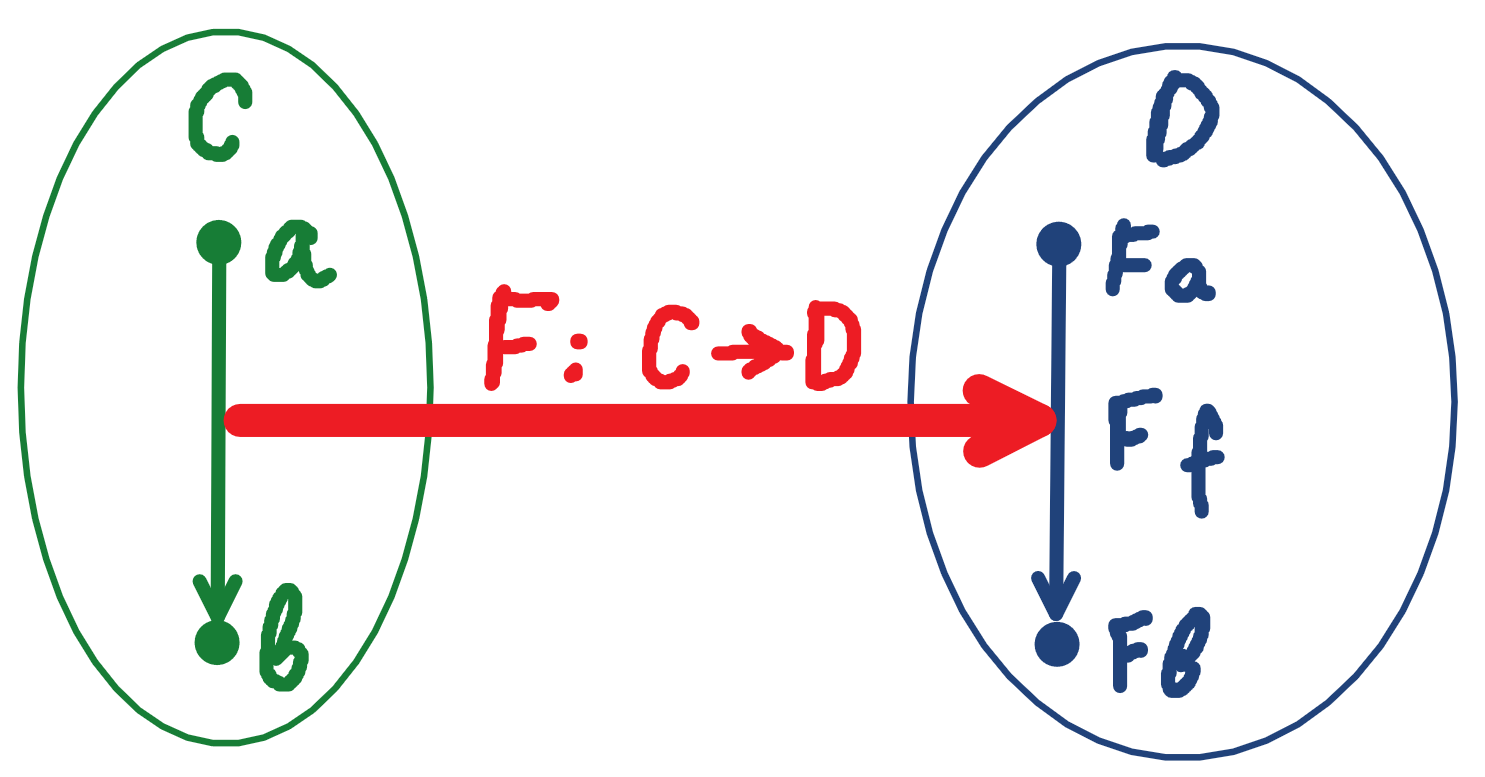
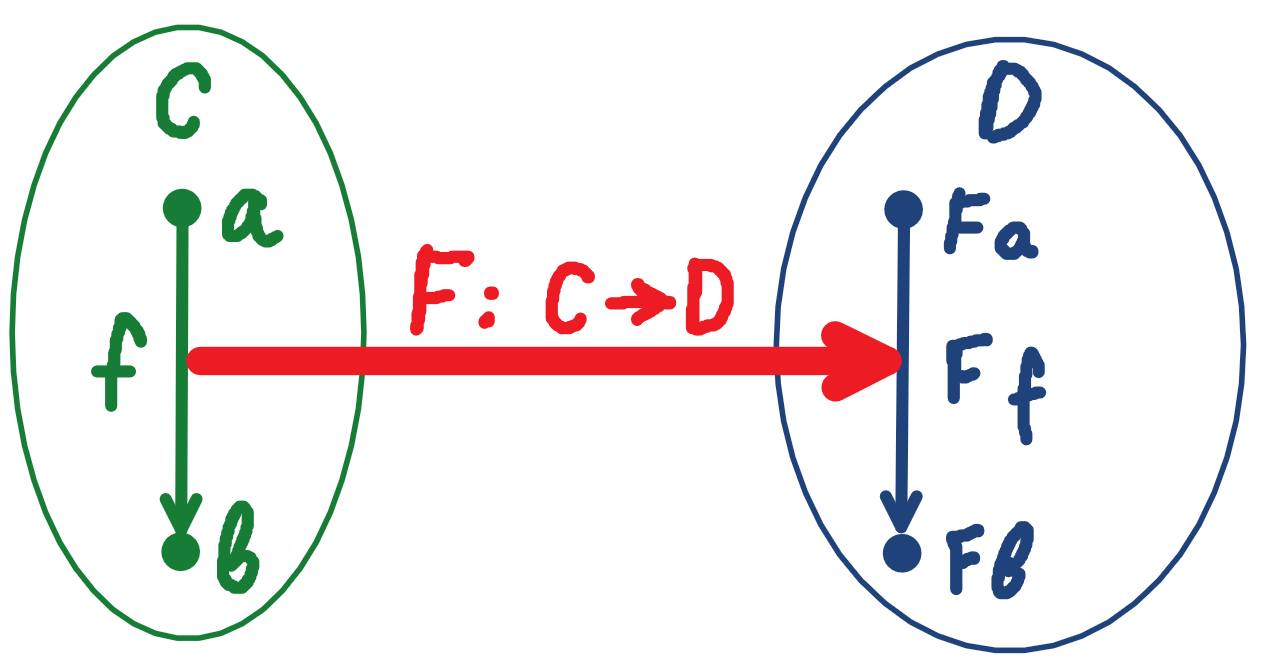
vault backup: 2025-07-26 15:38:33

diff --git a/Рефераты/ФП/Категории типов/! Категории типов. Часть 2. Функторы.md b/Рефераты/ФП/Категории типов/! Категории типов. Часть 2. Функторы.md
@@ -47,9 +47,8 @@ $$
 Вот более общее определение:
 >Функтор — это такой морфизм в категории категорий, который каждому морфизму из одной категории ставит в соответствие морфизм из другой категории, сохраняя при этом тождественный морфизм и композицию.
 
-### !!!! Исправить картинку - добавить слева f !
 
-![[функтор.png|Функтор F из категории C в D.|800]]
+![[Рефераты/Изображения/функтор.png|Функтор F из категории C в D.|800]]
 
 Функтор сохраняет композицию, следовательно, все диаграммы исходной категории без разрывов переносятся в конечную. Следуя Милевски, функторы как бы «встраивают» исходную категорию в целевую. Функтор *моделирует* всю исходную категорию внутри конечной.
 
@@ -255,11 +254,16 @@ type MyOption[+A] = [X] => (A => X) => (X => X) // `A` упомянут леве
 ```
 Если знак указан явно, то его придётся учитывать в некоторых случаях композиции конструкторов типов, когда у компилятора не будет возможности выяснить знак самостоятельно.
 
+
+[Контравариантный функтор в Scala Cats](https://habr.com/ru/companies/otus/articles/568096/)
+
+
+## !!!! Может, всё это убрать  нафиг??
+
+
 Конструктор типов `MyOption` записан в кодировке Чёрча, когда тип описывается только функциями, показывающими как использовать значения этого типа. В частности, данный тип функции соответствует сигнатуре метода `Option.fold`, полностью описывающего тип `Option[_]`. Обобщённые типы `MyOption`  и `Option` изоморфны.
 
-Я акцентирую внимание на кодировке Чёрча потому, что с её помощью можно представить интерпретацию любого типа без упоминания тех же сумм и произведений — останутся только экспоненциалы-функции (в общем случае, высокого порядка). Но при этом вариантность обобщённых типов не меняется! Таким образом, любой тип можно переписать по Чёрчу и подсчитать, левее скольких стрелок окажутся все вхождения типа-параметра.
-
-## !!!! Переписать этот бред про знаки позиций!!!!
+Акцентирую внимание на кодировке Чёрча потому, что с её помощью можно представить интерпретацию любого типа без упоминания тех же сумм и произведений — останутся только экспоненциалы-функции (в общем случае, высокого порядка). Но при этом вариантность обобщённых типов не меняется! Таким образом, любой тип можно переписать по Чёрчу и подсчитать, левее скольких стрелок окажутся все вхождения типа-параметра.
 
 Важность выражения типов виде функций высокого порядка в том, что получается древовидная структура `T[A]`,  представляющая собой либо функцию вида `T[A] => T[A]`, либо тип-параметр `A`, либо какой-то простой непараметризированный тип.
 
@@ -267,8 +271,6 @@ type MyOption[+A] = [X] => (A => X) => (X => X) // `A` упомянут леве
 
 , *скомпозировать* её со всеми составляющими её «маленькими» функциями, в которых встречается тип-параметр. А каждая такая композиция будет превращать «маленькую» `A => B` либо в `A => X`, либо в `X => B`, в зависимости от того, какой тип является параметром — правый `B`, или левый `A`. А это уже влияет на то, какого вида функцию можно использовать для такого превращения — будет ли целевой тип-параметр `X` стоять справа, или слева. Тогда в первом случае мы получим сигнатуру ковариантного преобразование, а во втором — контравариантное.
 
-
-[Контравариантный функтор в Scala Cats](https://habr.com/ru/companies/otus/articles/568096/)
 
 
 
@@ -584,7 +586,7 @@ https://ncatlab.org/nlab/show/invariant
 
 # Функторы для любых `F[_]`
 
-В моих **предыдущих** **обзорах** демонстрировалось, что любой тип можно представить в виде алгебраического выражения, состоящего из некоторых предустановленных типов (`Nothing`, `Unit`, …) а также сумм, произведений и  экспоненциалов. Такие алгебраические выражения можно *композировать*, встраивать друг в друга, получая более сложные типы. И эта система была бы не полной без **неподвижных точек конструкторов типов**, отвечающих за рекурсивную композицию, без которой не были бы возможны списки, деревья и прочие рекурсивные типы.
+В моих **предыдущих** **обзорах** демонстрировалось, что любой тип можно представить в виде алгебраического выражения, состоящего из некоторых предустановленных типов (`Nothing`, `Unit`, …) а также сумм, произведений и экспоненциалов. Обычные ООП-шные классы, (запечатанные) трейты со своей иерархией наследования — всё это прекрасно описывается алгебраическими операциями над типами. Такие алгебраические выражения можно встраивать друг в друга, получая более сложные типы. И эта система была бы не полной без **неподвижных точек конструкторов типов**, отвечающих за рекурсивную композицию, без которой не были бы возможны списки, деревья и прочие рекурсивные типы.
 
 Сейчас, мы видели, что для суммы, произведения и экспоненциала типов типов есть свои очевидные реализации ко-, контравариантных функторов (напомню, профунктор для экспоненциала представляет собой пару функторов разной вариантности). Для константных конструкторов типов реализация всех функторов вообще тривиальна. А можно ли столь же естественным образом *автоматически предоставлять функтор для любых конструкторов типов* `F[_]`?
 
